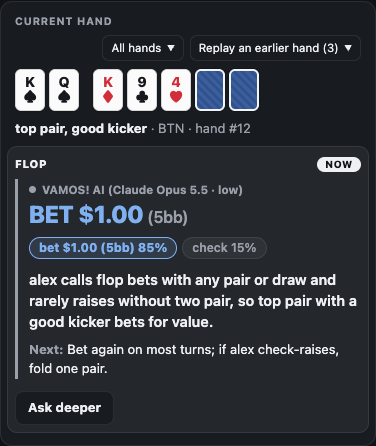
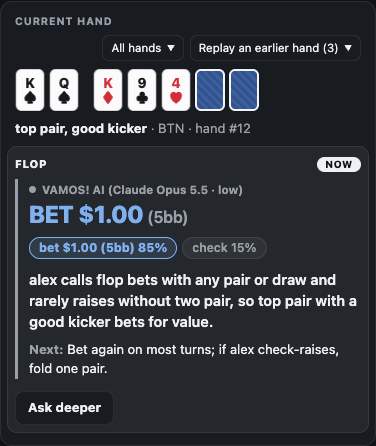
README: a side panel section with screenshots; made-up stats in the rulebook's example

Changed region(s): [[0.0293, 0.1457, 0.2926, 0.2623], [0.3218, 0.1457, 0.5266, 0.2623]]

diff --git a/extension/e2e/readme-images.spec.ts b/extension/e2e/readme-images.spec.ts
@@ -1,6 +1,7 @@
-import { resolve } from "node:path";
+import { writeFileSync } from "node:fs";
+import { dirname, join, resolve } from "node:path";
 
-import { expect, test } from "@playwright/test";
+import { expect, type Page, test } from "@playwright/test";
 
 import { EXTENSION_ID, GAME_ID, HERO_ID, KNOWN_ID, ORIGIN, STRANGER_ID, launch } from "./harness";
 
@@ -13,8 +14,37 @@ const H = `"you @ ${HERO_ID}"`;
 const A = `"alex @ ${KNOWN_ID}"`;
 const N = `"new guy @ ${STRANGER_ID}"`;
 
-// Three hands so the badges and the replayer have something to show, then the hero's turn on
-// the flop of hand #12: top pair against alex, the profiled calling station.
+// A made-up profile in the rulebook's shape (profiles/_GUIDELINES.md), for the profile viewer.
+const PROFILE = `---
+name: alex
+tag: Calling station
+player_id: ${KNOWN_ID}
+hands: 412
+sessions: [A 2026-09-01, B 2026-09-08, C 2026-09-15]
+net: -38.20 (A -20.00, B -7.60, C -10.60)
+last_updated: 2026-09-16
+---
+
+## Summary
+Loose-passive: limps a lot, calls flop bets with any pair or draw, and rarely raises without two pair or better.
+Bet bigger for value and stop bluffing him on the river.
+
+## Key stats
+Source: sessions A to C, ring hands only.
+- VPIP 51% (198/388), PFR 9% (35/388)
+- 3-bet vs an open 3% (4/131). Facing a 3-bet: fold 40% (2/5)
+- Flop: C-bets 58% (11/19). Faced a bet: fold 28% (31/111)
+- Went to showdown 41% (78/190), won at showdown 46% (36/78)
+- Recent: VPIP 56% (61/109), faced a flop bet: fold 22% (9/41)
+
+## How to exploit
+- Value bet thinner and bigger on every street: he called a 75% pot river with fifth pair in C88.
+- Do not bluff the river: he folded to a river bet 3 times in 24 (low confidence on sizes).
+- His check-raise means two pair or better: all 6 he showed were (C14, C61, B33).
+`;
+
+// Three hands so the badges and the replayer have something to show, then hand #12, played
+// out: a preflop rule, then Claude on the flop and the turn against alex, the calling station.
 const HANDS = [
   `-- starting hand #9 (id: demo9)  No Limit Texas Hold'em (dealer: ${H}) --`,
   `Player stacks: #1 ${H} (10.00) | #2 ${A} (10.00) | #3 ${N} (10.00)`,
@@ -87,12 +117,18 @@ const HANDS = [
   "Your hand is K♠, Q♠",
   `${A} posts a small blind of 0.10`,
   `${N} posts a big blind of 0.20`,
-  `${H} raises to 0.60`,
-  `${A} calls 0.60`,
-  `${N} folds`,
-  "Flop:  [K♦, 9♣, 4♥]",
-  `${A} checks`,
 ];
+const TO_FLOP = [`${H} raises to 0.60`, `${A} calls 0.60`, `${N} folds`, "Flop:  [K♦, 9♣, 4♥]", `${A} checks`];
+const TO_TURN = [`${H} bets 1.00`, `${A} calls 1.00`, "Turn: K♦, 9♣, 4♥ [2♣]", `${A} checks`];
+const TO_END = [
+  `${H} bets 2.40`,
+  `${A} folds`,
+  `Uncalled bet of 2.40 returned to ${H}`,
+  `${H} collected 3.40 from pot`,
+  "-- ending hand #12 --",
+];
+// Billed like a real call with the profiles cached, so the costs read like a session's.
+const USAGE = { input_tokens: 900, cache_read_input_tokens: 9000, output_tokens: 160 };
 
 // A felt table, seats on its rim and card faces, all drawn here.
 const TABLE_CSS = `
@@ -116,7 +152,12 @@ const TABLE_CSS = `
     font-weight: 700; font-size: 17px; }
   .card-container.flipped { background: #fafafa; color: #1b1b1b; }
   .card-container.card-h, .card-container.card-d { color: #c62828; }
-  .card-s-K::before { content: "K"; } .card-s-Q::before { content: "Q"; } .card-s-9::before { content: "9"; } .card-s-4::before { content: "4"; }
+  .card-s-A::before { content: "A"; } .card-s-K::before { content: "K"; } .card-s-Q::before { content: "Q"; }
+  .card-s-J::before { content: "J"; } .card-s-T::before { content: "10"; } .card-s-9::before { content: "9"; }
+  .card-s-8::before { content: "8"; } .card-s-7::before { content: "7"; } .card-s-6::before { content: "6"; }
+  .card-s-5::before { content: "5"; } .card-s-4::before { content: "4"; } .card-s-3::before { content: "3"; }
+  .card-s-2::before { content: "2"; }
+  .table-player-bet-value { position: absolute; top: -26px; right: -8px; color: #f5f5f5; font-size: 13px; }
   .card-container.card-s::after { content: "\\2660"; } .card-container.card-h::after { content: "\\2665"; }
   .card-container.card-d::after { content: "\\2666"; } .card-container.card-c::after { content: "\\2663"; }
   .table-cards.run-1 { position: absolute; left: 390px; top: 262px; display: flex; gap: 8px; }
@@ -130,19 +171,61 @@ const TABLE_CSS = `
   .action-button { font: inherit; font-weight: 600; padding: 8px 18px; border-radius: 8px; border: 0; background: #3a3e45; color: #fff; }
 `;
 
+const FLOP_ANSWER = {
+  reason:
+    "Player A calls flop bets with any pair or draw and rarely raises without two pair, so top pair with a good kicker bets for value.",
+  strategy: [
+    { action: "bet", size_pct_pot: 70, freq: 0.85 },
+    { action: "check", size_pct_pot: 0, freq: 0.15 },
+  ],
+  plan: "Bet again on most turns; if Player A check-raises, fold one pair.",
+  usage: USAGE,
+};
+const TURN_ANSWER = {
+  reason: "Player A calls a second barrel with any king or nine and almost never bluff-raises, so keep betting.",
+  strategy: [{ action: "bet", size_pct_pot: 70, freq: 1 }],
+  plan: "Bet the river again unless a straight or flush card comes.",
+  usage: USAGE,
+};
+
+interface Spot {
+  pot: string;
+  bets?: Record<string, string>;
+  board?: [string, string][];
+}
+
+/** The hero's turn as the table draws it: the pot, the bets in front, the board. */
+async function heroTurn(page: Page, spot: Spot) {
+  await page.evaluate(
+    ({ spot, hero }) => {
+      const chips = (value: string) => `<span class="chips-value"><span class="normal-value">${value}</span></span>`;
+      const seat = (id: string) => document.querySelector(`a[href="/players/${id}"]`)!.closest(".table-player")!;
+      for (const [id, value] of Object.entries(spot.bets ?? {})) {
+        seat(id).insertAdjacentHTML("beforeend", `<p class="table-player-bet-value">${chips(value)}</p>`);
+      }
+      document.querySelector(".table-pot-size .main-value")!.innerHTML = chips(spot.pot);
+      document.querySelector(".table-cards.run-1")!.innerHTML = (spot.board ?? [])
+        .map(([suit, rank]) => `<div class="card-container card-${suit} card-s-${rank} flipped"></div>`)
+        .join("");
+      seat(hero).classList.add("decision-current");
+    },
+    { spot, hero: HERO_ID },
+  );
+}
+
+/** The hero acted: the turn is over and the bets go in. */
+async function heroActed(page: Page) {
+  await page.evaluate(() => {
+    document.querySelector(".you-player")!.classList.remove("decision-current");
+    for (const bet of document.querySelectorAll(".table-player-bet-value")) bet.remove();
+  });
+}
+
 test("README images", async () => {
   test.skip(!process.env.VAMOS_README_IMAGES, "set VAMOS_README_IMAGES=1 to write docs/images/");
   const harness = await launch({ record: false });
   try {
-    harness.setClaudeAnswer({
-      reason:
-        "Player A calls flop bets with any pair or draw and rarely raises without two pair, so top pair with a good kicker bets for value.",
-      strategy: [
-        { action: "bet", size_pct_pot: 70, freq: 0.85 },
-        { action: "check", size_pct_pot: 0, freq: 0.15 },
-      ],
-      plan: "Bet again on most turns; if Player A check-raises, fold one pair.",
-    });
+    writeFileSync(join(dirname(harness.dataDir), "profiles", "alex.md"), PROFILE);
     const page = await harness.context.newPage();
     await page.setViewportSize({ width: 1000, height: 680 });
     await page.goto(`${ORIGIN}/games/${GAME_ID}`);
@@ -151,7 +234,6 @@ test("README images", async () => {
     harness.addLogLines(HANDS);
     await page.evaluate(
       ({ hero, known, stranger }) => {
-        const chips = (value: string) => `<span class="chips-value"><span class="normal-value">${value}</span></span>`;
         const card = (suit: string, rank: string) => `<div class="card-container card-${suit} card-s-${rank} flipped"></div>`;
         const seat = (id: string) => document.querySelector(`a[href="/players/${id}"]`)!.closest(".table-player")!;
         for (const { id, name, stack } of [
@@ -162,30 +244,37 @@ test("README images", async () => {
           seat(id).querySelector("a")!.textContent = name;
           seat(id).querySelector(".table-player-infos-ctn")!.insertAdjacentHTML("beforeend", `<div class="demo-stack">${stack}</div>`);
         }
-        seat(hero).classList.add("decision-current");
         seat(hero).insertAdjacentHTML("beforeend", `<div class="table-player-cards">${card("s", "K")}${card("s", "Q")}</div>`);
         seat(known).insertAdjacentHTML(
           "beforeend",
           '<div class="table-player-cards"><div class="card-container"></div><div class="card-container"></div></div>',
         );
-        seat(stranger).classList.add("fold");
         document
           .querySelector(".table")!
           .insertAdjacentHTML(
             "afterbegin",
-            `<div class="table-pot-size"><div class="main-value">${chips("1.40")}</div></div>` +
-              `<div class="table-cards run-1">${card("d", "K")}${card("c", "9")}${card("h", "4")}</div><div class="dealer-chip">D</div>`,
+            '<div class="table-pot-size"><div class="main-value"></div></div><div class="table-cards run-1"></div><div class="dealer-chip">D</div>',
           );
-        const buttons = document.querySelector(".game-decisions-ctn")!;
-        buttons.innerHTML =
+        document.querySelector(".game-decisions-ctn")!.innerHTML =
           '<p class="action-signal">Your Turn</p><button class="action-button fold">Fold</button>' +
           '<button class="action-button check">Check</button><button class="action-button raise">Bet</button>';
       },
       { hero: HERO_ID, known: KNOWN_ID, stranger: STRANGER_ID },
     );
     const card = page.locator("#vamos-root .action-card");
+
+    // Preflop: king-queen suited first in on the button, which a rule answers.
+    await heroTurn(page, { pot: "0.00", bets: { [KNOWN_ID]: "0.10", [STRANGER_ID]: "0.20" } });
+    await expect(card.locator(".source")).toContainText("Preflop rule");
+    await heroActed(page);
+
+    // The flop: Claude decides, against the profiled calling station.
+    harness.setClaudeAnswer(FLOP_ANSWER);
+    harness.addLogLines(TO_FLOP);
+    await page.evaluate((id) => document.querySelector(`a[href="/players/${id}"]`)!.closest(".table-player")!.classList.add("fold"), STRANGER_ID);
+    await heroTurn(page, { pot: "1.40", board: [["d", "K"], ["c", "9"], ["h", "4"]] });
     await expect(card.locator(".source")).toContainText("VAMOS! AI");
-    await expect(card).toContainText("BET");
+    await expect(card).toContainText("BET $1.00");
 
     const panel = await harness.context.newPage();
     await panel.setViewportSize({ width: 400, height: 1000 });
@@ -193,11 +282,38 @@ test("README images", async () => {
     await panel.goto(`chrome-extension://${EXTENSION_ID}/src/sidepanel/index.html`);
     await expect(panel.locator("section.advice .answer").first()).toBeVisible();
     // Every earlier hand read, so the badges count all three.
-    const earlier = panel.getByRole("combobox", { name: "Replay an earlier hand" }).locator("option");
-    await expect(earlier).toHaveCount(4);
+    const picker = panel.getByRole("combobox", { name: "Replay an earlier hand" });
+    await expect(picker.locator("option")).toHaveCount(4);
+    const alex = panel.locator(".players li.player", { has: panel.locator(".who", { hasText: /^alex$/ }) });
+    await alex
+      .getByPlaceholder("Notes for this session, e.g. very bluffy")
+      .fill("Called the river with fives two hands ago.");
     await page.bringToFront();
     await page.screenshot({ path: `${OUT}/table.png` });
+    await panel.bringToFront();
     await panel.locator("section.advice").screenshot({ path: `${OUT}/panel-hand.png` });
+    await alex.locator("details.file summary").click();
+    await alex.screenshot({ path: `${OUT}/panel-player.png` });
+
+    // The turn: Claude again, then alex folds and the hand goes to the replayer.
+    await heroActed(page);
+    harness.setClaudeAnswer(TURN_ANSWER);
+    harness.addLogLines(TO_TURN);
+    await heroTurn(page, { pot: "3.40", board: [["d", "K"], ["c", "9"], ["h", "4"], ["c", "2"]] });
+    await expect(card).toContainText("BET $2.40");
+    await heroActed(page);
+    harness.addLogLines(TO_END);
+    await expect(picker.locator("option")).toHaveCount(5);
+    await picker.selectOption({ index: 1 });
+    await expect(panel.locator("section.replay .vamos").first()).toBeVisible();
+    await panel.locator("section.replay").screenshot({ path: `${OUT}/panel-replay.png` });
+
+    // The top of the panel: the switches, the model and the costs.
+    await panel.evaluate(() => window.scrollTo(0, 0));
+    const costs = await panel.locator("section.card", { hasText: "API costs" }).boundingBox();
+    if (costs) {
+      await panel.screenshot({ path: `${OUT}/panel-top.png`, clip: { x: 0, y: 0, width: 400, height: costs.y + costs.height + 8 } });
+    }
   } finally {
     await harness.close();
   }

diff --git a/README.md b/README.md
@@ -66,10 +66,28 @@ Some honesty about these numbers:
 - **Claude.** Every other decision, before and after the flop, goes to Claude Opus 5.5 at low effort, with the profiles of the opponents at the table, the whole hand so far, the stats and your notes. It answers with an action and a size, sometimes a mix ("bet 85%, check 15%"), one sentence on why, and a plan for the next street. "Ask deeper" asks again at medium effort and shows both answers so you can compare.
 - **The card.** On your turn, a small card above the pot shows the action, the size in dollars and big blinds, the mix, and where the advice came from (`Preflop chart`, `Preflop rule` or `VAMOS! AI (Claude Opus 5.5 · low)`).
 - **The badges.** Under each seat, the player's profile tag and this session's stats.
-- **The side panel.** The current hand with every AI decision and its reasoning, your notes on each player, their profile summary, a replayer for this session's earlier hands with what VAMOS said next to what you did, and what the AI has cost so far.
+- **The side panel.** Everything else: the current hand, a hand replayer, every player's stats, notes and profile, and the costs. More on it [below](#the-side-panel).
 - **Privacy.** Claude never sees a real name or nickname: opponents are "Player A", "Player B" and so on, and you're "Hero". Everything VAMOS saves stays on your computer, in `data/`.
 
-![The side panel's current hand: Claude's answer with its reasoning and plan](docs/images/panel-hand.png)
+## The side panel
+
+Click the VAMOS icon in Chrome and a side panel opens next to the table.
+
+- **Switches, model and costs.** Turn the AI advice, the card on the table and the seat badges on or off, pick low or medium thinking, and see what the AI has cost this session, this month and all time.
+- **Current hand.** Your cards, your made hand and position, and every AI decision in the hand street by street, each with Claude's reasoning and its plan for the next street. Ask deeper is here too.
+- **Hand replayer.** Pick any earlier hand from the session and go through it street by street: the board, everyone's cards that were shown, every action, and what VAMOS said before each of your decisions next to what you actually did. The menu marks the biggest pots and colors wins and losses, you can filter it to hands you played, big pots, AI decisions or showdowns, and previous and next buttons step through the session.
+- **Players.** Everyone at the table, with their profile tag and summary, this session's stats (VPIP, PFR, 3-bet, c-bet, bets to calls and fold to a bet), the same stats from their profile across every session, and their result in each session.
+- **Notes.** A notes box for each player this session, like "tilted" or "very bluffy". Your notes go to Claude with every decision, under the same pseudonyms.
+- **Profile viewer.** Open anyone's whole profile file right in the panel.
+- **Matching and drafts.** Match a new PokerNow account to an existing profile (friends switch devices and accounts), and Save draft writes a player's session numbers and your notes to `drafts/` so you can look them over.
+
+<table>
+<tr>
+<td valign="top" width="33%"><img src="docs/images/panel-top.png" alt="The switches, the model and the costs"><br><img src="docs/images/panel-hand.png" alt="The current hand: Claude's answer with its reasoning and plan"></td>
+<td valign="top" width="33%"><img src="docs/images/panel-player.png" alt="A player: this session's stats, the profile's stats, notes and the profile file"></td>
+<td valign="top" width="33%"><img src="docs/images/panel-replay.png" alt="The hand replayer: each street with what VAMOS said and what you did"></td>
+</tr>
+</table>
 
 ## Opponent profiles
 
